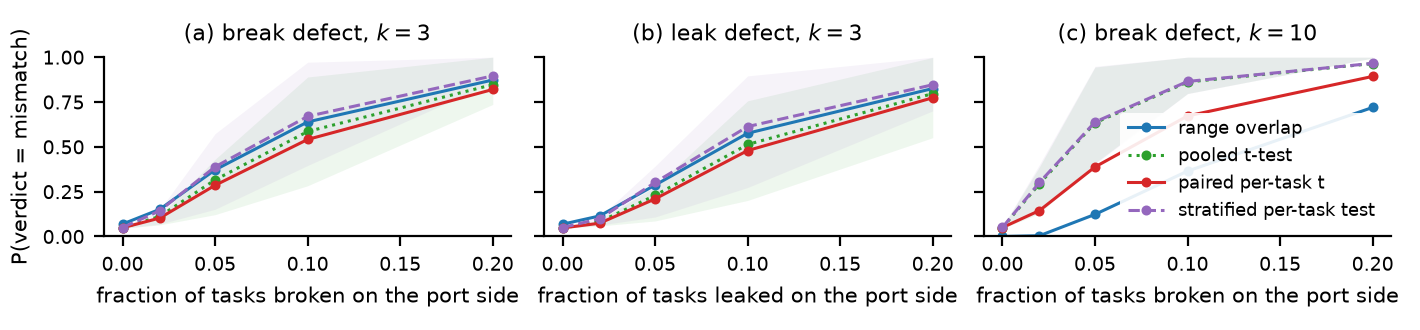
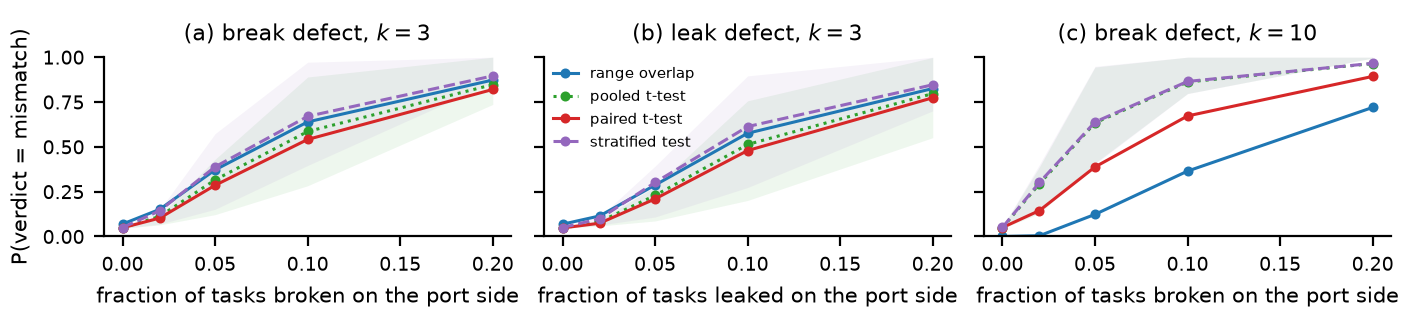
Figures: readable axis label, labels and legend

diff --git a/scripts/p4_paper_figures.py b/scripts/p4_paper_figures.py
@@ -73,15 +73,15 @@ xs = list(range(1, n + 1))
 ax.scatter([x for x, f in zip(xs, fails) if not f], [m for m, f in zip(margins, fails) if not f], s=9, color="tab:blue", label="passes range overlap", zorder=3)
 ax.scatter([x for x, f in zip(xs, fails) if f], [m for m, f in zip(margins, fails) if f], s=16, color="tab:red", marker="D", label="fails range overlap", zorder=4)
 ax.axhline(3, color="grey", lw=0.6, ls="--"); ax.axhline(5, color="grey", lw=0.6, ls=":")
-ax.text(n + 0.5, 3, " 3", va="center", fontsize=6.5, color="grey"); ax.text(n + 0.5, 5, " 5", va="center", fontsize=6.5, color="grey")
+ax.text(1, 3 * 1.06, "3 points", va="bottom", fontsize=6, color="grey"); ax.text(1, 5 * 1.06, "5 points", va="bottom", fontsize=6, color="grey")
 ax.set_yscale("log"); ax.set_ylim(0.8, 60); ax.set_xlim(0, n + 3)
 ax.set_yticks([1, 2, 3, 5, 10, 20, 50]); ax.set_yticklabels(["1", "2", "3", "5", "10", "20", "50"])
-ax.set_xlabel(f"comparison, sorted ({n} with three runs per side)"); ax.set_ylabel("smallest provable margin, points")
+ax.set_xlabel(f"comparison, sorted ({n} with three runs per side)"); ax.set_ylabel("smallest provable\nmargin (points)")
 LABELS = {"frontier-cs-algorithm": "Frontier-CS", "rexbench": "RexBench", "pixiu": "PIXIU", "gdb": "GDB", "usaco": "USACO"}
 for x, r, m in zip(xs, head, margins):
     if r["adapter"] in LABELS:
         gap = float(r["gap"])
-        ax.annotate(f"{LABELS[r['adapter']]} (gap {gap:+.1f})", (x, m), xytext=(-4, 3 if r["adapter"] != "usaco" else 5), textcoords="offset points", ha="right", fontsize=6)
+        ax.annotate(f"{LABELS[r['adapter']]} (gap {gap:+.1f})", (x, m), xytext={"frontier-cs-algorithm": (-5, 5), "rexbench": (-8, -2), "pixiu": (-4, -3)}.get(r["adapter"], (-4, 3 if r["adapter"] != "usaco" else 5)), textcoords="offset points", ha="right", fontsize=6)
 ax.legend(frameon=False, loc="upper left")
 fig.tight_layout()
 fig.savefig(os.path.join(figdir, "fig2_margins.pdf")); fig.savefig(os.path.join(figdir, "fig2_margins.png"), dpi=200); plt.close(fig)
@@ -92,13 +92,13 @@ FS = defects["summary"]["fractions"]
 nad = defects["summary"]["n_binary"]
 fig, axes = plt.subplots(1, 3, figsize=(7.1, 1.65), sharey=True)
 for ax, (kind, k, title) in zip(axes, (("break", 3, "(a) break defect, $k = 3$"), ("leak", 3, "(b) leak defect, $k = 3$"), ("break", 10, "(c) break defect, $k = 10$"))):
-    for rule, lab, ls, col in (("R", "range overlap", "-", "tab:blue"), ("T", "pooled t-test", ":", "tab:green"), ("P", "paired per-task t", "-", "tab:red"), ("CMH", "stratified per-task test", "--", "tab:purple")):
+    for rule, lab, ls, col in (("R", "range overlap", "-", "tab:blue"), ("T", "pooled t-test", ":", "tab:green"), ("P", "paired t-test", "-", "tab:red"), ("CMH", "stratified test", "--", "tab:purple")):
         ys = [A[f"{kind},f={fr},k={k}"][rule]["mean"] for fr in FS]
         ax.plot(FS, ys, ls, marker="o", color=col, label=lab)
         if rule in ("T", "CMH"):
             ax.fill_between(FS, [A[f"{kind},f={fr},k={k}"][rule]["q25"] for fr in FS], [A[f"{kind},f={fr},k={k}"][rule]["q75"] for fr in FS], color=col, alpha=0.08, lw=0)
     ax.set_xlabel(f"fraction of tasks {'broken' if kind == 'break' else 'leaked'} on the port side"); ax.set_title(title); ax.set_ylim(0, 1)
-axes[0].set_ylabel("P(verdict = mismatch)"); axes[2].legend(frameon=True, framealpha=0.9, edgecolor="none", loc="lower right")
+axes[0].set_ylabel("P(verdict = mismatch)"); axes[1].legend(frameon=False, loc="upper left", fontsize=5.5, handlelength=1.6, borderaxespad=0.2)
 fig.tight_layout(w_pad=0.8)
 fig.savefig(os.path.join(figdir, "fig3_defects.pdf")); fig.savefig(os.path.join(figdir, "fig3_defects.png"), dpi=200); plt.close(fig)
 numbers["fig3_n_adapters"] = nad
